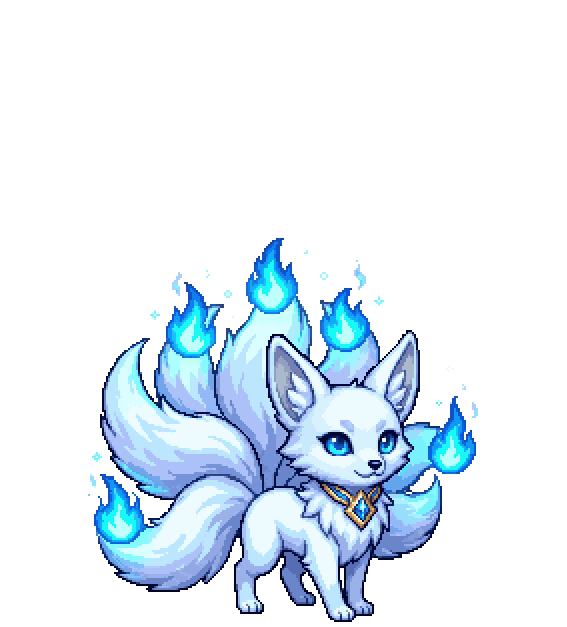
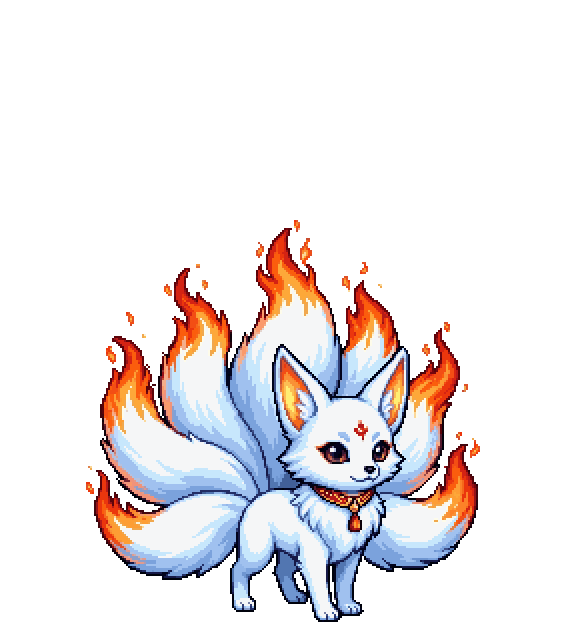
v9.8 (D) : Renard céleste aux flammes de feu (son élément)
Claude-Session: https://claude.ai/code/session_0134j7sUmm2MY5TRLqZ2ApEG

Changed region(s): [[0.1499, 0.3333, 0.8395, 1.0]]

diff --git a/tools/art/pl98_portraits.py b/tools/art/pl98_portraits.py
@@ -43,7 +43,7 @@ PETS = {
   'pet_crystal_hedgehog': 'cute hedgehog with violet crystal spikes, lilac sparkles',
   'pet_dragonling': 'cute baby red dragon with small wings, tiny flame from the mouth',
   'pet_jade_turtle': 'cute jade green turtle with golden rune shell, soft green glow',
-  'pet_kitsune': 'cute white fox spirit with several fluffy tails tipped with blue foxfire',
+  'pet_kitsune': 'cute white fox spirit with several fluffy tails tipped with bright orange and red foxfire flames',
   'pet_phoenix': 'small phoenix bird with golden and red fire feathers, embers',
 }
 PET_BASE = 'cute fantasy pet creature, full body, vibrant saturated colors, crisp pixel art with clean pixels, rim lighting, transparent background, same pixel style as reference'
